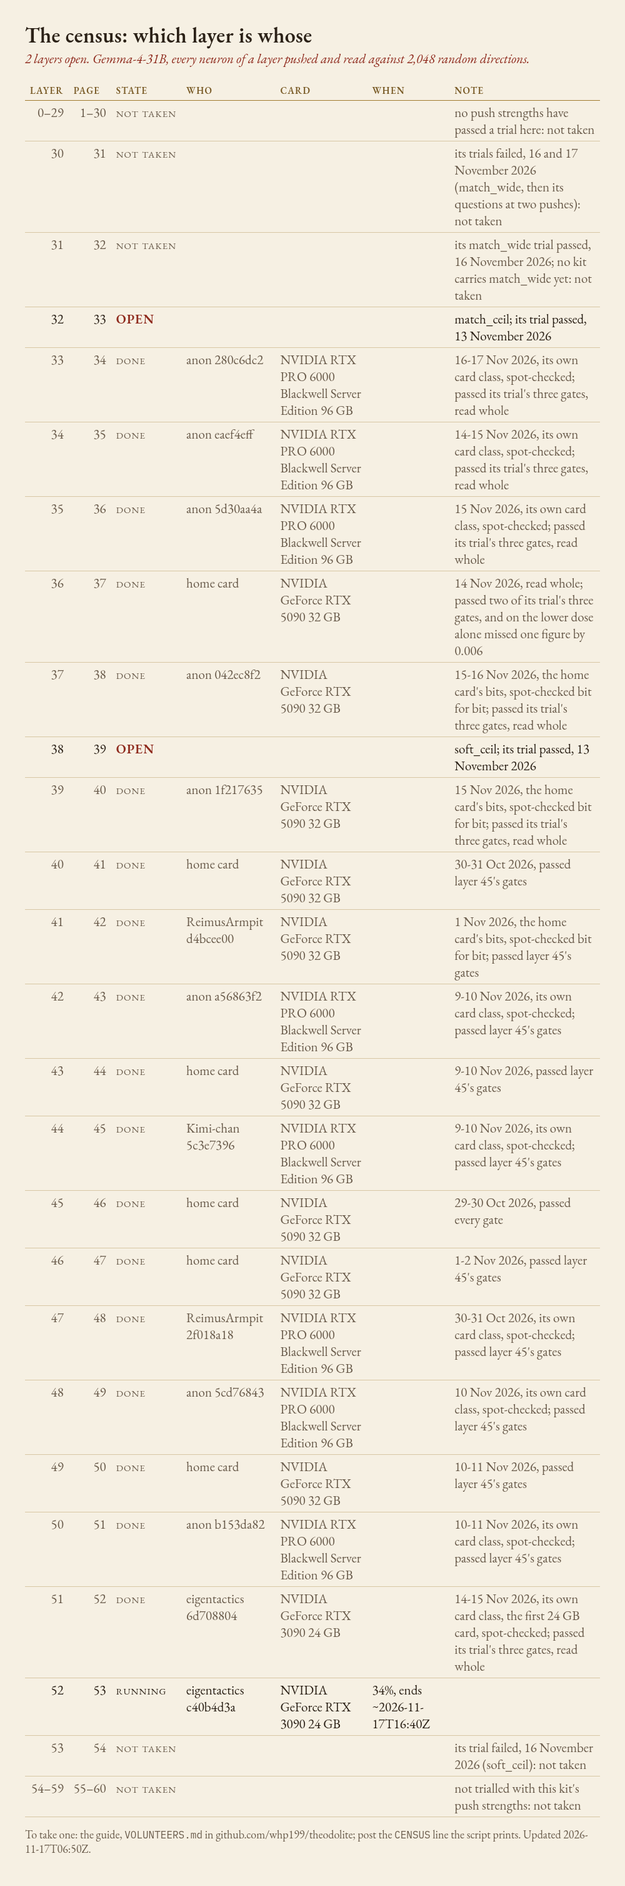
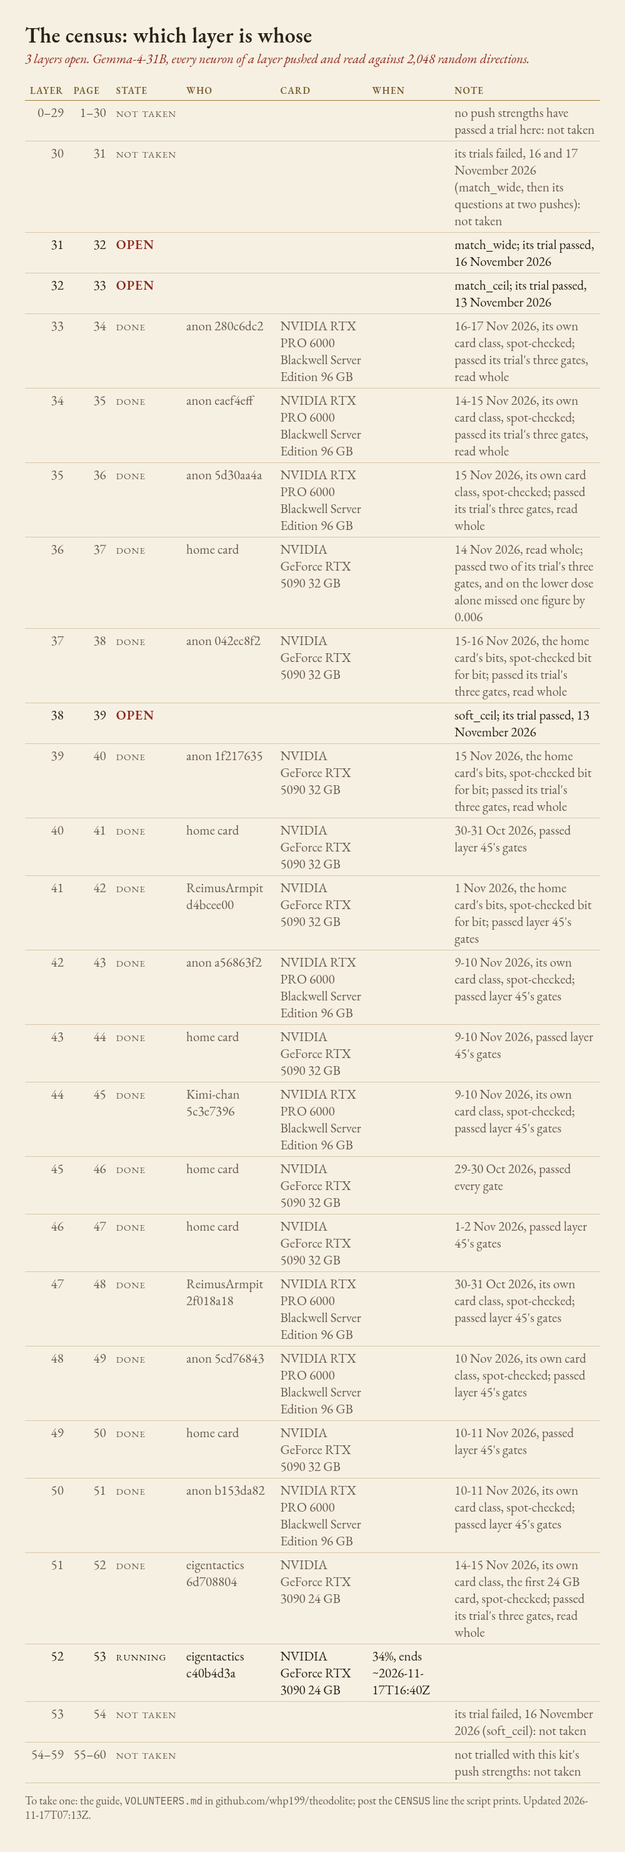
Kit 5 cut: kit 4 with layer 31 added, taken with match_wide, and opened on the board
The owner's word of 17 November 2026: "Cut kit 5" (prepared on "Prepare kit 5 for layer 31", 16 November).

- The board is kit 5's, and layer 31 is open ("match_wide; its trial passed, 16 November 2026"). Open: 31, 32 and 38.
  Layer 52 runs under kit 4 (eigentactics, c40b4d3a): its lines are taken as before, and its bundle is checked by kit
  4's own file (census_volunteer.earlier_kit), as 37 and 33 were.
- VOLUNTEERS.md, the guide and the thread post name census-kit-5. They say what kit 5 adds, and that a layer running
  under kit 4 is finished on kit 4. The bars amendment of 17 November gives match_wide's bars at 31 (0.013, 0.26,
  first piece 0.90) and its own twelve unpushed answers. The done layers are brought to 18: 33-37 and 39-51, twelve
  by volunteers.
- README and docs/ATLAS.md: the same counts, and kit 5 at layer 32 on the pages.
- ROADMAP: layers 37 and 33 read whole, each passing its trial's three gates with more room than its trial, with
  their per-neuron counts; and the kit 5 entry. It also corrects 71c7104's message: layer 37's trial passed its
  thinnest gate by 0.015, not 0.001 (that was layer 36's trial).

Nothing that writes an answer changed since eebe4a6, where all seventeen of kit 4's home canaries were taken again
under kit 5 and matched. check_volunteer_kit: 82 passed (thread cap 4). The thread post is the owner's.

diff --git a/volunteers/post/guide.html b/volunteers/post/guide.html
@@ -31,9 +31,9 @@ code { font-size:16.5px; background:rgba(160,122,46,.10); padding:0 4px; }
 
 <h1>Take a layer of the census</h1>
 <p class="sub">Gemma-4-31B. Every MLP neuron of a layer pushed along its own direction and read against 2,048 random
-ones. Sixteen layers are done (34–36, 39–51), one of them on a 24 GB card. Four more are open, 32, 33, 38 and 52, and
-37 is being taken: each passed a trial on our card with the push strengths the script uses there. The board says which
-are open.</p>
+ones. Eighteen layers are done (33–37, 39–51), one of them on a 24 GB card. Three more are open, 31, 32 and 38, and
+52 is being taken: each passed a trial on our card with the push strengths the script uses there. Kit 5 adds layer
+31, asked twelve questions at one push. The board says which are open.</p>
 
 <h2>what you get, when the atlas is published</h2>
 <div class="two">
@@ -65,7 +65,7 @@ are open.</p>
 <h2>do this</h2>
 <ol class="steps">
 <li><div><pre>git clone https://github.com/whp199/theodolite
-cd theodolite &amp;&amp; git checkout census-kit-4
+cd theodolite &amp;&amp; git checkout census-kit-5
 scripts/volunteer/census.sh check</pre></div></li>
 <li><div><pre>scripts/volunteer/census.sh reserve 32 --name you</pre>
 <p class="say">Pick an <b>open</b> layer on the board (the script checks). <span class="rub">Post the <code>CENSUS RESERVE</code>
@@ -98,11 +98,11 @@ continues it answer for answer.</p></div></li>
 <div>
 <h2>how it is checked</h2>
 <ul>
-<li>every setting and all 565,254 answers, the claim's secret, the commit</li>
+<li>every setting and all 565,254 answers (565,260 at layer 31), the claim's secret, the commit</li>
 <li>5 of the run's 737 chunks, drawn after it arrives, written again on our 5090</li>
 <li>same bits as ours: must match exactly; another card: rules fixed beforehand (first word-piece, log-probabilities)</li>
 <li>you send the answers, your card's name and versions, a claim code; no logs or paths</li>
-<li>ran an earlier kit? <code>git fetch --tags &amp;&amp; git checkout census-kit-4</code>: your downloads are reused</li>
+<li>ran an earlier kit? <code>git fetch --tags &amp;&amp; git checkout census-kit-5</code>: your downloads are reused; a layer already running under kit 4 is finished on kit 4</li>
 </ul>
 </div>
 </div>

diff --git a/VOLUNTEERS.md b/VOLUNTEERS.md
@@ -9,7 +9,8 @@ done: 13.2 hours on one RTX 5090, and it passed every check set for it before it
 November 2026 five more were done, **34 to 36, 39 and 51**. Four came from volunteers, and each passed the three
 checks its trial was read by (below); layer 51 came from an RTX 3090, the first layer taken on a 24 GB card. Layer 36
 was taken on our own card and passed two of the three; on the third it missed one figure by 0.006, and it is counted
-done with that miss named on the board.
+done with that miss named on the board. On 17 November 2026 two more came from volunteers, **33 and 37**, and both
+passed all three.
 
 Layers 40 to 50 are the eleven the first push strengths, ±1 and ±2 of the stream, were calibrated for. **A layer outside
 them is not offered blind.** We first take a trial of it on our own card: about a thousand of its neurons against
@@ -18,11 +19,12 @@ opened on the board; one whose trial fails is not taken. The first push strength
 further out. At 38 the same push is three times the most a neuron can write, and the text breaks; at 52 it is barely
 once, and the gentler half of the answers hardly moves.
 
-**Since kit 3 each layer is taken with the push strengths whose trial passed there.** Two newer designs count the push in what each
+**Since kit 3 each layer is taken with the push strengths whose trial passed there.** Three newer designs count the push in what each
 neuron can write by itself, its *write ceiling*:
 
 | Layers | Push strengths | Its trial |
 |---|---|---|
+| 31 | the lower of those two counts alone (2.58 ceilings), on twelve questions instead of six | passed, 16 November 2026 |
 | 32 to 37 | two counts of the neuron's write ceiling, set for each layer where the next word-piece moves by a fixed amount (between 2.2 and 2.8 ceilings) | passed at each, 13 November 2026 |
 | 38 and 52 | ±1.6 and ±2.3 of the neuron's write ceiling | passed at each, 13 November 2026 |
 | 39 and 51 | ±1 and ±2 of the stream, as at layers 40 to 50 | passed at each, 12 November 2026 |
@@ -31,14 +33,16 @@ The script picks the right one for the layer you take; there is nothing to choos
 layer 34 passed by the most, and layer 36 by a thousandth on one of its three checks
 (`experiments/results/census_scaled_design/MATCH.md` has every figure). So layer 36 was held for our own card and
 taken there (14 November 2026); read whole, it missed that same check by 0.006. Layers 31 and 53 failed their trials
-with these push strengths. A design that asks twice the questions at one push passed a trial at layer 31 on 16
-November 2026, but no kit carries it yet; it failed at layer 30. No push strengths have passed a trial by layer 45's
-gates at layers 0 to 30 or 54 to 59. None of those layers is taken yet. **The board says which layers
+with these push strengths. At layer 31 the design that asks twice the questions at one push passed instead (16
+November 2026). It failed at layer 30, and so did the same twelve questions at both pushes (17 November). No push
+strengths have passed a trial by layer 45's gates at layers 0 to 30 or 54 to 59. None of those layers is taken yet. **The board says which layers
 are open.** Layers count from 0, as every script counts them (the app's page = layer + 1).
 
-**Kit 4, the kit to use now, is kit 3 opened to 24 GB cards** (14 November 2026, from a contributor's pull request).
-The layers, the push strengths and the answers are the same. The loader keeps a part of the model the census never
-reads off the card, and `census.sh check` asks how much of the card is free.
+**Kit 5, the kit to use now, is kit 4 with layer 31 added** (17 November 2026), taken with the twelve-question
+design above. Every other layer is taken exactly as under kit 4. Kit 4 opened the census to 24 GB cards (14 November
+2026, from a contributor's pull request): the loader keeps a part of the model the census never reads off the card,
+and `census.sh check` asks how much of the card is free. **If a layer of yours is running under kit 4, finish it with
+kit 4**: do not switch its checkout. Its bundle is checked by kit 4's own rules.
 
 **The board** shows which layer is whose: the pinned *Census layer board* issue, <https://github.com/whp199/theodolite/issues/1>.
 
@@ -61,8 +65,8 @@ layer on:
 - **Ready now: a neuron in your own frontend.** Any neuron exports as a llama.cpp control vector, for `llama-server`
   and SillyTavern or anything else on it. Keep the scale near ±1 (*Use a neuron in your own setup*, below).
 
-A census rank says what a neuron's push does to six fixed questions at four strengths. What it does in your own
-chats, you try for yourself.
+A census rank says what a neuron's push does to six fixed questions at four strengths (at layer 31, twelve at two).
+What it does in your own chats, you try for yourself.
 
 ## What you need
 
@@ -92,7 +96,7 @@ below.
 ```bash
 mkdir -p ~/theodolite-census && cd ~/theodolite-census
 git clone https://github.com/whp199/theodolite.git && cd theodolite
-git checkout census-kit-4
+git checkout census-kit-5
 scripts/volunteer/census.sh check                      # can this machine take a layer?
 ```
 
@@ -169,14 +173,15 @@ for someone else.
 
 ```bash
 cd ~/theodolite-census/theodolite          # logos-theodolite, in a checkout cloned before the repository was renamed
-git fetch --tags && git checkout census-kit-4
+git fetch --tags && git checkout census-kit-5
 scripts/volunteer/census.sh check
 ```
 
-Kit 4 pins the same Python packages, the same checkpoint and the same stats index as kits 1 to 3, so `setup` finds
-them and has little left to do. Run it once anyway, then go on from step 1 with a new `reserve`: a claim made with an
-earlier kit does not carry over, and the board refuses a line made with one. Layers 39 and 51 are taken with kit 4
-now, by the same command kit 2 took them with.
+Kit 5 pins the same Python packages, the same checkpoint and the same stats index as kits 1 to 4, so `setup` finds
+them and has little left to do. Run it once anyway, then go on from step 1 with a new `reserve`: the board refuses a
+`RESERVE` line made with an earlier kit. A layer you have already started under kit 4 is the exception: finish it in
+its kit 4 checkout and post its lines as before. Layers 39 and 51 are taken with kit 5 now, by the same command kit 2
+took them with.
 
 ## The rules
 
@@ -250,9 +255,20 @@ These rules were fixed on 30 October 2026, before any volunteer's run had been s
    cards before these bars were measured (42, 44, 47, 48 and 50), the medians were 0.013 to 0.015 where our own arithmetic gave 0.013, so a run of the kit's code
    should sit near our arithmetic under these designs too, well inside the new bars. It did: layers 34 and 35, from an
    RTX PRO 6000 under `match_ceil` and accepted on 16 November 2026, came to medians of 0.0051 and 0.0046 and 99th
-   percentiles of 0.115 and 0.110, where our own arithmetic gave 0.0050 and 0.117; and layer 51, from an RTX 3090
-   under `break_rel`, to 0.0111 and 0.150. A layer with no measured bars (53 to 59, which are shut) is
+   percentiles of 0.115 and 0.110, where our own arithmetic gave 0.0050 and 0.117 (layer 33, from the same card on
+   17 November, 0.0055 and 0.116); and layer 51, from an RTX 3090 under `break_rel`, to 0.0111 and 0.150. A layer with no measured bars (53 to 59, which are shut) is
    not judged until they are measured.
+
+   **Amended 17 November 2026: kit 5's layer 31.** Layer 31 is taken with `match_wide`, which no earlier kit measured.
+   Before kit 5 was offered, its bars were measured on our 5090, by the same rule, under a registration committed and
+   pushed first ([`census_other_card_bars/kit5/prereg/RULES.md`](experiments/results/census_other_card_bars/kit5/prereg/RULES.md)).
+   The measurement used 768 answers to all twelve of its questions.
+   - Our own arithmetic moves the median to 0.0053 and the 99th percentile to 0.115, as under `match_ceil`.
+   - So its bars are 0.013 and 0.26, beside `match_ceil`'s 0.012 and 0.25. The first-piece bar stays 0.90.
+   - Its twelve unpushed answers are its own, not layer 45's six. Six of its questions are new, and a whole layer
+     writes the second half's unpushed answers in batches of 63, where chair's log-probabilities differ from layer
+     45's. Our run of the kit's own plan matched them bit for bit. The near-tie rule below stands for them: our
+     arithmetic parted only at pieces written at 0.52 or less.
 
    **Amended 31 October 2026: the unpushed answers.** The first rule asked each to share at least 16 word-pieces with
    ours. That first volunteer's whole run kept three of the six word for word. The other three parted sooner, at
@@ -271,11 +287,12 @@ with each other, the card is named.
 
 **A layer outside 40 to 50** is read, once it is accepted, by the same three checks its trial was read by: the whole
 reading against layer 45's gates, the gentler push's answers alone, and the neurons whose text survives as the random
-directions' does (the rules are in `experiments/results/census_neighbour_trials/prereg/`, `census_soft_trials/prereg/`
-and `census_match_walk/prereg/`). The push strengths are counted calibrated at each of the ten layers whose trial passed. The
-kit opened with nine of them; layer 36 was held for our own card and taken there. Read whole by these checks (16
-November 2026), layers 34, 35, 39 and 51 pass all three, and layer 36 passes two and misses the gentler push's check
-on one figure, 0.564 against 0.57. Whether the push strengths stay counted calibrated at 36 is the owner's to decide;
+directions' does (the rules are in `experiments/results/census_neighbour_trials/prereg/`, `census_soft_trials/prereg/`,
+`census_match_trials/prereg/`, `census_match_walk/prereg/` and `census_wide_trials/prereg/`). The push strengths are
+counted calibrated at each of the eleven layers whose trial passed. Kit 3 opened nine of them, layer 36 was held for
+our own card and taken there, and kit 5 adds layer 31. Read whole by these checks (16 and 17 November 2026), layers
+33, 34, 35, 37, 39 and 51 pass all three, and layer 36 passes two and misses the gentler push's check on one figure,
+0.564 against 0.57. Whether the push strengths stay counted calibrated at 36 is the owner's to decide;
 nothing has been changed. At any other layer the atlas marks a census "doses not calibrated at this layer", and its strongest neurons are
 drawn on the map without gilt.
 
@@ -305,8 +322,8 @@ drawn on the map without gilt.
 - **`reserve` says the layer is not open**: the board shows it waiting for its trial, not taken, or held by someone
   else. Pick a layer shown OPEN.
 - **`reserve` says the board is another kit's**: your checkout is at an older tag. `git fetch --tags && git checkout
-  census-kit-4`, then reserve again.
-- **The canary refuses "other settings"**: the checkout isn't at `census-kit-4`, or the stats index isn't the kit's.
+  census-kit-5`, then reserve again.
+- **The canary refuses "other settings"**: the checkout isn't at `census-kit-5`, or the stats index isn't the kit's.
 - **The run stopped**: run the same `census.sh run` again. The log is `~/theodolite-census/logs/L<layer>-<design>.log`
   (`L32-match_ceil.log`).
 - **Out of memory**: close everything else on the card. The batch is fixed at 64, so a card that can't hold it
@@ -335,7 +352,7 @@ llama-server -m gemma-4-31B-it-QAT-Q4_0.gguf --control-vector-scaled theodolite-
   - With the kit set up, run `. ~/theodolite-census/env.sh` first: it finds the checkpoint and the stats index you
     already have. Checkouts of kit 2 and later hold the script; run it there with the kit's Python
     (`~/theodolite-census/theodolite/.venv/bin/python`). It writes one new file and changes none, so the checkout
-    stays as `census.sh` needs it. (Kit 1's tag is older than the script: check out `census-kit-4`.)
+    stays as `census.sh` needs it. (Kit 1's tag is older than the script: check out `census-kit-5`.)
   - Without the kit: add `--gguf` with your own GGUF of Gemma-4-31B-it and `--stats` with the kit's stats index
     (`https://github.com/whp199/theodolite/releases/download/census-kit-1/act_scale.npz`, sha256
[1 lines of base64/hex data omitted]

diff --git a/ROADMAP.md b/ROADMAP.md
@@ -1383,6 +1383,69 @@ layers, the determinism run and the sampled push on 29 October). In this section
       word-piece inside the span where every earlier dose but one had led (0.37 and 1.53 nats), so by the
       registration that span is no guide above layer 52. Layers 54–59 were not trialled. The board marks 53 failed.
       What to try above 52, if anything, is the owner’s choice.
+    *Two more whole layers from volunteers, 37 and 33* (17 November 2026; the owner approved each download: “Yes, take
+    in 37” and “you can take it in”). Both were taken with kit 4 at its tag (`81c13628`), from a clean tree, and came
+    home after kit 5 was prepared and before it was cut, so each was checked by kit 4’s own file, read from its tag
+    (`census_volunteer.earlier_kit`). Each was read whole by its trial’s registered reader
+    ([`census_L37_whole/`](experiments/results/census_L37_whole/), `census_L33_whole/`; a `read.sh` in each says how).
+    - **What came home.**
+      - Layer 37, `match_ceil`, by anon (042ec8f2), the volunteer who took 39, on an RTX 5090 with the home card’s
+        bits. Begun 15 November at 22:14Z by the run’s record; DONE 16 November at 21:49Z. Its spot chunks (54, 183,
+        271, 461 and 675 of 737) are the home card’s bit for bit, all 3,840 answers.
+      - Layer 33, `match_ceil`, by anon (280c6dc2), the volunteer who took 34 and 35, on the same RTX PRO 6000 card
+        class. Begun 16 November at 13:03Z, in three sessions; DONE 17 November at 05:50Z. Its spot chunks (140,
+        249, 316, 447 and 657): the first word-piece the home card’s in 0.984 of answers (bar 0.90), log-probabilities
+        apart by a median 0.0055 (0.012) and 0.116 at the 99th percentile (0.25), as 34’s and 35’s were.
+    - **What they read**, by the figures and bars of the table above, at 48 word-pieces:
+
+      | layer, design, doses | every answer | the lower dose alone | the neurons the controls cover | its trial, every answer |
+      |---|---|---|---|---|
+      | 37, `match_ceil`, ±2.41 and ±2.55 ceilings | 0.662, 0.700, 0.626 and 0.630, 0.651 | 0.650, 0.667, 0.602 and 0.607, 0.636 | 89 in 100; 0.646, 0.687, 0.607 and 0.609, 0.636 | 0.653, 0.678, 0.609 and 0.627, 0.654 |
+      | 33, `match_ceil`, ±2.31 and ±2.51 ceilings | 0.745, 0.742, 0.653 and 0.662, 0.709 | 0.716, 0.707, 0.623 and 0.622, 0.668 | 97 in 100; 0.744, 0.738, 0.651 and 0.660, 0.707 | 0.726, 0.726, 0.630 and 0.637, 0.691 |
+
+      Each passes every gate, with more room than its trial: the least margin over a bar is 0.032 against 0.015 at
+      37, and 0.052 against 0.031 at 33, both on the lower dose’s words carried across the question halves (at 37’s
+      trial, on the covered neurons’). The message of `71c7104` says layer 37’s trial passed one gate by 0.001; that
+      was layer 36’s trial. Reported beside them, gating nothing: the upper dose alone reads 0.631, 0.665, 0.611 and
+      0.597, 0.622 at 37, and 0.712, 0.706, 0.614 and 0.612, 0.659 at 33. By the length rule 33 keeps 48
+      word-pieces, as its trial did, and 37 would take 32, as its trial would have. The text hardly moves: the
+      neurons’ answers lose 0.022 to 0.030 of their distinct 4-grams at 37 and 0.003 to 0.004 at 33, the controls’
+      0.005 to 0.009 and 0.002 to 0.004.
+    - **Per neuron they tell more than 34–36**, by the counts of the table above:
+
+      | layer | above all 2,048 controls (10.5 by chance) | q ≤ 0.05 | above 95 in 100 controls | more than five control SDs over the controls’ median | the strongest control and the fifth, in those SDs |
+      |---|---|---|---|---|---|
+      | 37 | 454 | 2,332 | 31 in 100 | 2,376 | 10.5 and 9.5 |
+      | 33 | 1,041 | 5,576 | 40 in 100 | 2,891 | 7.9 and 6.0 |
+
+      Their strongest controls bring another language’s words, as at 34–36 (French, Spanish, Portuguese and German
+      at 37; Portuguese and Indonesian at 33), and at 37 they stand as far out as there or further (the fifth at 9.5
+      SDs, against 7.2 to 8.9). Yet at 37 2,332 neurons have
+      q ≤ 0.05, where 34–36 had none: more of its neurons stand further out still. With the five strongest controls
+      set aside the count would be 4,017 at 37 and 6,197 at 33 (gating nothing).
+    - **The board** (17 November, before the cut): eighteen layers done, 33–37 and 39–51, twelve of them by
+      volunteers; 52 running (eigentactics, c40b4d3a, under kit 4); 32 and 38 open.
+  - **Kit 5: kit 4 with layer 31 added** (cut 17 November 2026, tag `census-kit-5`; the owner’s words: “Prepare kit 5
+    for layer 31”, 16 November, and “Cut kit 5”, 17 November). Layer 31 is taken with `match_wide`, `match_ceil`’s
+    lower count alone (±2.58 ceilings) on twelve questions, whose trial passed there on 16 November (above); it is
+    counted calibrated there alone, at 48 word-pieces (`a0e950e`). Every other layer is taken as under kit 4.
+    - **The answers.** All seventeen of kit 4’s home canaries, taken again under kit 5, are the ones kept; layer
+      31’s is new (`eebe4a6`). Nothing that writes an answer changed after that.
+    - **Its own unpushed answers.** `match_wide` asks twelve questions, and a whole layer writes the second half’s
+      unpushed answers in batches of 63, where chair’s log-probabilities differ from layer 45’s. So a design that
+      asks other questions is checked against its own unpushed answers, from its trial on the home card
+      (`census_volunteer.DESIGN_BASELINES`).
+    - **Its bars for another card class**, registered and pushed before anything was measured
+      ([`census_other_card_bars/kit5/prereg/RULES.md`](experiments/results/census_other_card_bars/kit5/prereg/RULES.md),
+      `e6fa0cf`, pushed 02:37:48Z; measured 02:37Z–03:36Z, `22e73db`). The control’s twelve unpushed answers are
+      the trial’s bit for bit. The near-tie bar stands at 0.6 (the home card’s own arithmetic parted only at pieces
+      written at 0.52 or less). On the kit’s own chunk 0, 768 answers to all twelve questions, the home card’s
+      arithmetic moves the median to 0.0053 and the 99th percentile to 0.115, as under `match_ceil`; the bars are
+      0.013 and 0.26, and 0.90 of first word-pieces.
+    - **A layer begun under kit 4** is finished on kit 4 and checked by kit 4’s own file, read from its tag
+      (`census_volunteer.earlier_kit`), as 37 and 33 were; at the cut that is layer 52.
+    - **The board** is kit 5’s with layer 31 open: 31, 32 and 38 open, 52 running. *Not shown yet:* a whole layer of
+      `match_wide` from a volunteer. The thread post is the owner’s.
 - **A pattern put to the test, without a push** (built 14 November 2026 on the stand-in, and tried on the 31B the
   same day, below; the owner’s words that day, “Start on the first two ideas from the article”, then “Pause 36, try
   now”). The census

diff --git a/docs/ATLAS.md b/docs/ATLAS.md
@@ -23,8 +23,8 @@ both ways, by once and by twice the stream’s usual length. Its answers are set
 pushed as far: 565,254 answers a layer, about thirteen hours on one RTX 5090. A neuron ranks high when the words its push
 brings stand further above the random directions’ than nearly every random direction’s own words do. So a high rank says
 its push differs from a random one. It does not say that its words share a theme, or name what the neuron does when it
-fires. The doses were first calibrated at layers 41–51. The census covers those eleven layers and, since 16 November
-2026, five more: 35–37, 40 and 52 (below).
+fires. The doses were first calibrated at layers 41–51. The census covers those eleven layers and, since 16 and 17
+November 2026, seven more: 34–38, 40 and 52 (below).
 
 All eleven are in: layers 41–51 (40–50 on the [census board](https://github.com/whp199/theodolite/issues/1), which
 counts from 0), six of them taken by volunteers. Layer 46 was read against gates fixed before it ran, and the other ten
@@ -45,10 +45,13 @@ board) and fails at 38. One whose two counts are set a layer at a time, where th
 amount, passes at layers 33–38 (32–37 on the board) and fails at 32. The doses are counted calibrated at those eight
 layers, and a third kit offers them to volunteers beside layers 40 and 52, each with the design that passed there
 ([VOLUNTEERS.md](../VOLUNTEERS.md)); layer 37 (36 on the board), which passed one check by a thousandth, was held for the
-home card and taken there. Since 14 November 2026 (kit 4) a 24 GB card with nothing else on it can take a layer. The other thirty-nine layers (1–32 and 54–60) have no design that passed there. Where a census’s doses are not counted
+home card and taken there. Since 14 November 2026 (kit 4) a 24 GB card with nothing else on it can take a layer. A
+design that asks twelve questions at one push, the lower of the layer's two counts, passed a trial at layer 32 (31 on
+the board) on 16 November and failed at 31; since 17 November kit 5 offers it at 32. The other thirty-eight layers
+(1–31 and 54–60) have no design that passed there. Where a census’s doses are not counted
 calibrated the atlas marks it “doses not calibrated at this layer” and inks it without gilt.
 
-Five layers of the second round are in. Three volunteers took layers 35, 36, 40 and 52 (34, 35, 39 and 51 on the
+Seven layers of the second round are in. Three volunteers took layers 35, 36, 40 and 52 (34, 35, 39 and 51 on the
 board) on 14 and 15 November 2026, and each was accepted on 16 November; layer 52 came from an RTX 3090, the first
 layer taken on a 24 GB card. The home card took layer 37 (36) on 14 November. Each was read whole by its own trial’s
 reader and three gates. The four volunteers’ layers pass all three. Layer 37 passes two, and on the third its gentler
@@ -58,9 +61,11 @@ board; whether its doses stay counted calibrated is still the owner’s to decid
 layer 41 these layers say less of single neurons. At 35–37 none has a q of 0.05 or less, and 18 to 110 beat all 2,048 random directions: there the
 strongest random directions bring the words of another language (Portuguese, Spanish, French, German, Indonesian)
 with the text unbroken, and even the fifth strongest stands further above the rest than at any other layer read
-whole. At 40, 436 have q ≤ 0.05 and 87 beat all 2,048. Layer 52 reads as 41–51 do: 7,145 and 2,123. Layers 33, 34,
-39 and 53 (32, 33, 38 and 52 on the board) are open to volunteers, and 38 (37) is being taken. Every figure is in
-ROADMAP §vi.
+whole. At 40, 436 have q ≤ 0.05 and 87 beat all 2,048. Layer 52 reads as 41–51 do: 7,145 and 2,123. On 17 November two
+more came from volunteers and pass all three: layer 38 (37 on the board), from an RTX 5090 with the home card's bits,
+and layer 34 (33), from an RTX PRO 6000. Unlike 35–37 they say much of single neurons: 2,332 and 5,576 have q ≤ 0.05,
+and 454 and 1,041 beat all 2,048. Layers 32, 33 and 39 (31, 32 and 38 on the board) are open to volunteers, and 53
+(52) is being taken. Every figure is in ROADMAP §vi.
 
 <table>
   <tr>

diff --git a/README.md b/README.md
@@ -25,7 +25,7 @@
 </p>
 
 <p align="center">
-  <sub>The census: sixteen of the sixty layers done, three being taken, two open to volunteers (16 November 2026).
+  <sub>The census: eighteen of the sixty layers done, one being taken, three open to volunteers (17 November 2026).
   <a href="https://github.com/whp199/theodolite/issues/1">The board</a> · <a href="VOLUNTEERS.md">take a layer</a>.</sub>
 </p>
 
@@ -85,8 +85,9 @@ by the home card and by volunteers on their own. The first eleven layers taken (
 - **Checked against the home card.** Each volunteer run’s first batch is compared with the home card’s: bit for bit
   on the same kind of card, and within bars measured beforehand on another.
 
-On 16 November 2026 sixteen layers were done (35–37 and 40–52, counting 1–60 as the pages do; the board counts 0–59).
-Three were being taken, two were open, and the rest wait for a push that passes a trial there.
+On 17 November 2026 eighteen layers were done (34–38 and 40–52, counting 1–60 as the pages do; the board counts 0–59).
+One was being taken, three were open (kit 5 added layer 32, the board's 31), and the rest wait for a push that passes
+a trial there.
 [How to take a layer](VOLUNTEERS.md) · [the board](https://github.com/whp199/theodolite/issues/1) · [the atlas and the
 census at length](docs/ATLAS.md) · [every figure](ROADMAP.md#vi--the-atlas).
 
@@ -256,8 +257,9 @@ Theodolite began as the instrument of one study, of whether Gemma 4 is “female
 interpretability, and a way to learn it: one a newcomer can learn to read a model with, and one whose readings say
 how far they can be trusted. What is under way:
 - **The census of all sixty layers.** Layer by layer, a trial first, taken by the home card and by volunteers. Below
-  layer 33 and above layer 53 the push that reads is still being found. On 16 November 2026 a design that asks twice
-  the questions at one dose passed its trial at layer 32 (31 on the board) and failed at 31 (30 on the board).
+  layer 32 and above layer 53 the push that reads is still being found. On 16 November 2026 a design that asks twice
+  the questions at one dose passed its trial at layer 32 (31 on the board), which kit 5 offers, and failed at 31 (30
+  on the board); the same questions at two doses failed there too (17 November).
 - **Reading a neuron without pushing it.** Each face’s strongest passages are kept, and since 14 November 2026 a
   pattern written from them can be put to a blind test. Neither is yet validated as a label.
 - **A lens fitted on the instruct model.** None tested so far has beaten the base-fitted J++ where it would be

diff --git a/volunteers/BOARD.md b/volunteers/BOARD.md
@@ -1,12 +1,12 @@
 # The census: which layer is whose
 
-Kit 4 (census-kit-4). How to take a layer: [VOLUNTEERS.md](https://github.com/whp199/theodolite/blob/main/VOLUNTEERS.md). Post `CENSUS ...` lines as comments here or in the thread; the board is updated by hand, so give it a little while. Layers count from 0 (page = layer + 1). A layer marked *not taken* is not offered: each layer outside 40–50 is trialled on the home card (about 70 minutes) before it is offered, and none of this kit's push strengths has passed a trial there.
+Kit 5 (census-kit-5). How to take a layer: [VOLUNTEERS.md](https://github.com/whp199/theodolite/blob/main/VOLUNTEERS.md). Post `CENSUS ...` lines as comments here or in the thread; the board is updated by hand, so give it a little while. Layers count from 0 (page = layer + 1). A layer marked *not taken* is not offered: each layer outside 40–50 is trialled on the home card (about 70 minutes) before it is offered, and none of this kit's push strengths has passed a trial there.
 
 | Layer | Page | State | Who | Card | When | Note |
 |---:|---:|---|---|---|---|---|
 | 0–29 | 1–30 | not taken |  |  |  | no push strengths have passed a trial here: not taken |
 | 30 | 31 | not taken |  |  |  | its trials failed, 16 and 17 November 2026 (match_wide, then its questions at two pushes): not taken |
-| 31 | 32 | not taken |  |  |  | its match_wide trial passed, 16 November 2026; no kit carries match_wide yet: not taken |
+| 31 | 32 | OPEN |  |  |  | match_wide; its trial passed, 16 November 2026 |
 | 32 | 33 | OPEN |  |  |  | match_ceil; its trial passed, 13 November 2026 |
 | 33 | 34 | done | anon 280c6dc2 | NVIDIA RTX PRO 6000 Blackwell Server Edition 96 GB |  | 16-17 Nov 2026, its own card class, spot-checked; passed its trial's three gates, read whole |
 | 34 | 35 | done | anon eaef4eff | NVIDIA RTX PRO 6000 Blackwell Server Edition 96 GB |  | 14-15 Nov 2026, its own card class, spot-checked; passed its trial's three gates, read whole |
@@ -46,4 +46,4 @@ Judged:
 - L37 anon 042ec8f2: accepted (15-16 Nov 2026, the home card's bits, spot-checked bit for bit; passed its trial's three gates, read whole)
 - L33 anon 280c6dc2: accepted (16-17 Nov 2026, its own card class, spot-checked; passed its trial's three gates, read whole)
 
-Holds: 36 h after RESERVE to START; then the run's end time (from PROGRESS) plus 24 h; at most 10 days in all. Updated 2026-11-17T06:50Z.
+Holds: 36 h after RESERVE to START; then the run's end time (from PROGRESS) plus 24 h; at most 10 days in all. Updated 2026-11-17T07:13Z.
